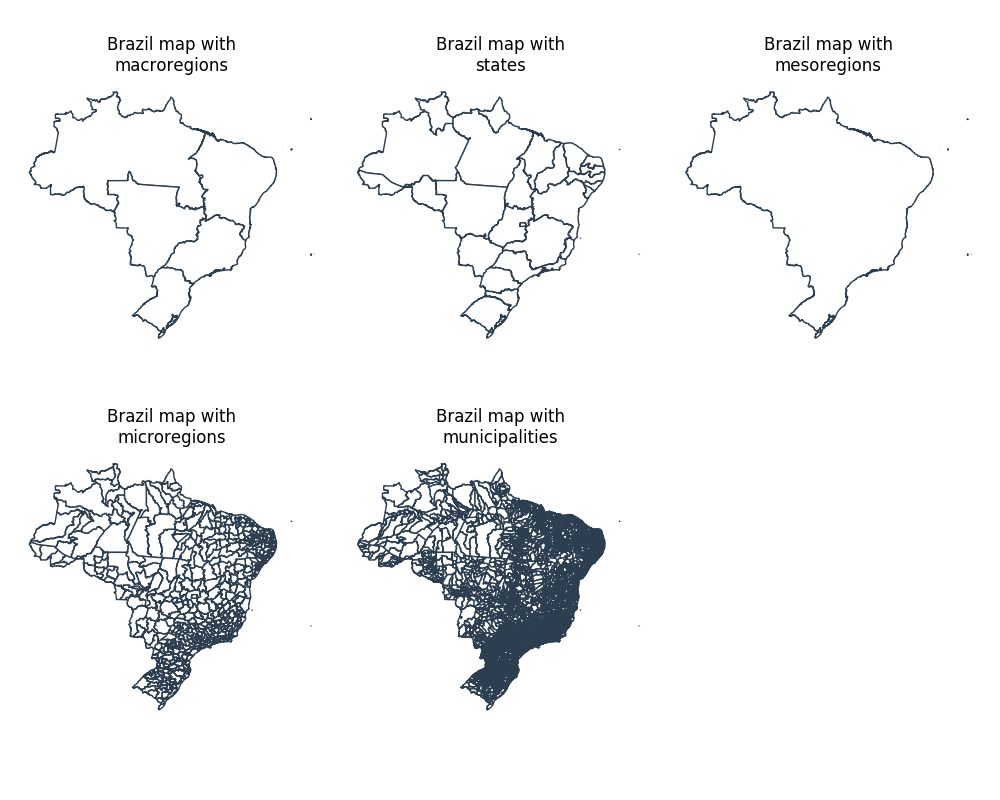
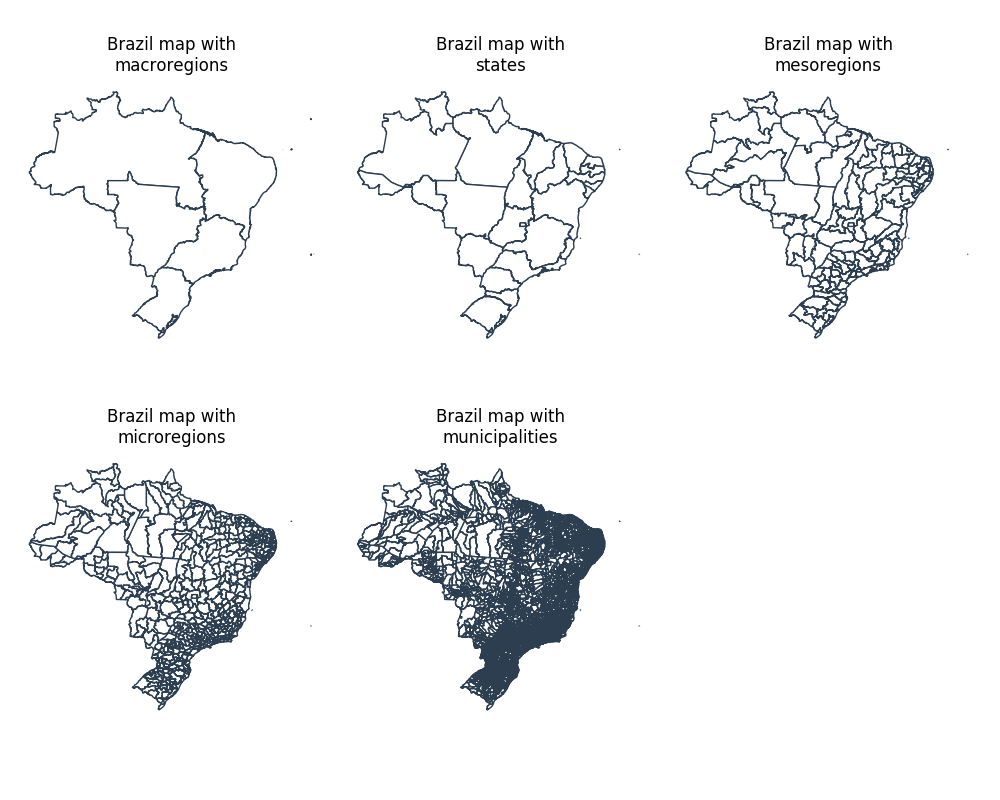
ibgemaps: fix resolutions typos

Changed region(s): [[0.713, 0.125, 0.93, 0.4062]]

diff --git a/mapsbr/ibgemaps.py b/mapsbr/ibgemaps.py
@@ -64,8 +64,8 @@ resolutions = {
     "states": 2,
     "mesorregiao": 3,
     "mesorregioes": 3,
-    "mesorregion": 3,
-    "mesorregions": 3,
+    "mesoregion": 3,
+    "mesoregions": 3,
     "microrregiao": 4,
     "microrregioes": 4,
     "microrregion": 4,
